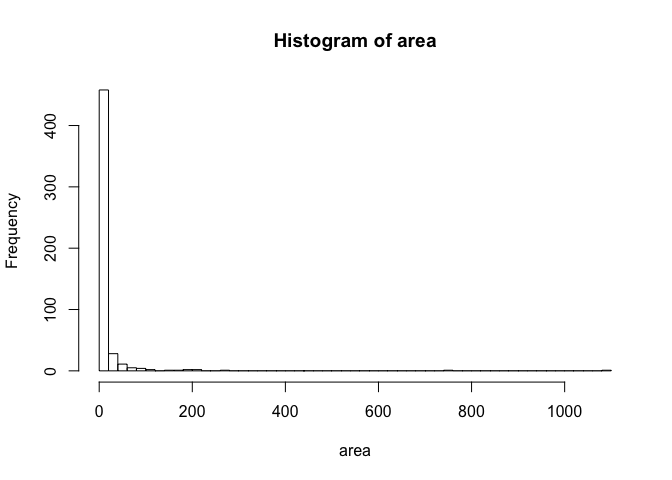
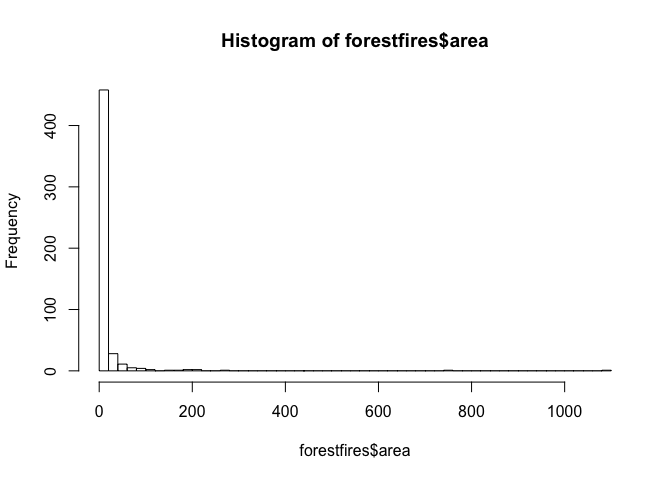
Correlation and Scatter plots

Changed region(s): [[0.3125, 0.0625, 0.75, 0.125], [0.4375, 0.9062, 0.625, 0.9688]]

diff --git a/forestfires.md b/forestfires.md
@@ -33,13 +33,13 @@ All the required libraries are loaded.
 
 ``` r
 source('libraries.R')
+source('Main.R')
 ```
 
 The data is retrieved and stored into a data frame using `read.csv`.
 
 ``` r
-forestfires <- read.csv("http://archive.ics.uci.edu/ml/machine-learning-databases/forest-fires/forestfires.csv",
-                        stringsAsFactors = FALSE)
+forestfires <- read.csv("http://archive.ics.uci.edu/ml/machine-learning-databases/forest-fires/forestfires.csv")
 ```
 
 Exploratory Data Analysis
@@ -48,8 +48,8 @@ Exploratory Data Analysis
 The response variable in our analysis is the `area`. A histogram of `area` reveals that a large number of values are zeros. A zero value for area indicates that there were no forest fires.
 
 ``` r
-attach(forestfires)
-hist(area, 40)
+#attach(forestfires)
+hist(forestfires$area, 40)
 ```
 
 ![](forestfires_files/figure-markdown_github/unnamed-chunk-3-1.png)
@@ -57,8 +57,8 @@ hist(area, 40)
 A log transformation can reveal the distribution of the area variable. However, since we have zeros, the log transform should be done on area + 1, i.e, log(area + 1). The distribution of log(area + 1) is shown:
 
 ``` r
-attach(forestfires)
-hist(log(area + 1), 40)
+#attach(forestfires)
+hist(log(forestfires$area + 1), 40)
 ```
 
 ![](forestfires_files/figure-markdown_github/unnamed-chunk-4-1.png)
@@ -76,8 +76,11 @@ Since our aim is to predict the area of the forest fires given that there is ind
 The histogram for log(area\[area &gt;0\]) is shown here:
 
 ``` r
-attach(forestfires)
-hist(log(area[area>0]), 40)
+#attach(forestfires)
+forestfires <- forestfires %>%
+  filter(area > 0) %>%
+  mutate(logArea=log(area))
+hist(forestfires$logArea, 40)
 ```
 
 ![](forestfires_files/figure-markdown_github/unnamed-chunk-6-1.png)
@@ -85,12 +88,8 @@ hist(log(area[area>0]), 40)
 Next, we will see how the transformed response variable correlates with other variables. X, Y, month and day are categrorical variables. A better way to explore the relationship of these categorical variables with the log(area\[area&gt;0\]) is to draw a box plot.
 
 ``` r
-attach(forestfires)
-forestfires %>%
-  filter(area > 0) %>%
-  mutate(logArea = log(area)) %>%
-  ggplot(aes(x = as.factor(X), y=logArea)) +
-  geom_boxplot()
+ggplot(forestfires, aes(x = as.factor(X), y=logArea)) +
+geom_boxplot()
 ```
 
 ![](forestfires_files/figure-markdown_github/unnamed-chunk-7-1.png)
@@ -98,24 +97,85 @@ forestfires %>%
 The box plot reveals that the mean and variation is pretty much the same across all levels of X, which indicates that X may not be a great predictor of logArea.
 
 ``` r
-attach(forestfires)
-forestfires %>%
-  filter(area > 0) %>%
-  mutate(logArea = log(area)) %>%
-  ggplot(aes(x = as.factor(Y), y=logArea)) +
+#attach(forestfires)
+ggplot(forestfires, aes(x = as.factor(Y), y=logArea)) +
   geom_boxplot()
 ```
 
 ![](forestfires_files/figure-markdown_github/unnamed-chunk-8-1.png)
 
-Create a correlation matrix of all the numeric variables:
+Same goes with Y. Thus, both the spatial predictors X and Y can safely be ignored from the model. Keeping these discrete variables does not appear to be a good choice.
+
+Next, let's explore how the `month` and `day` categorical variables are related to logArea - our transformed response variable.
 
 ``` r
-attach(forestfires)
+ggplot(forestfires, aes(x = as.factor(month), y=logArea)) +
+  geom_boxplot()
+```
+
+![](forestfires_files/figure-markdown_github/unnamed-chunk-9-1.png)
+
+There is definitely some variability of `logArea` between each of these `months (groups)`. However, some months don't have much data in them. It is better to even out these observations by categorizing them into seasons. Recoding the month variable into season.
+
+``` r
+for (i in 1:270){
+  if(forestfires$month[i] %in% c("dec", "jan", "feb"))
+      forestfires$season[i] <- "winter"
+  else if (forestfires$month[i] %in% c("sep", "oct", "nov"))
+      forestfires$season[i] <- "fall"
+  else if (forestfires$month[i] %in% c("jun", "jul", "aug"))
+      forestfires$season[i] <- "summer"
+  else
+      forestfires$season[i] <- "spring"
+}
+
+forestfires %>%
+  ggplot(aes(x = as.factor(forestfires$season), y=logArea)) +
+    geom_boxplot()
+```
+
+![](forestfires_files/figure-markdown_github/unnamed-chunk-10-1.png)
+
+It may not be very obvious from this boxplot, but summer months tend to have a higher values of area burnt by forest fires and also most frequent forest fires occur in summer months. A quick look at the contingency table reveals this fact. Also notice that a large number of values greater than 5 are in the summer months.
+
+``` r
+table(as.factor(forestfires$season))
+```
+
+    ## 
+    ##   fall spring summer winter 
+    ##    102     24    125     19
+
+This can be visually verified by this plot:
+
+``` r
+# Create a histogram to check the distribution of values faceted by season.
+ggplot(forestfires, aes(x = logArea)) +
+  geom_histogram() + 
+  facet_grid(~as.factor(season))
+```
+
+![](forestfires_files/figure-markdown_github/unnamed-chunk-12-1.png)
+
+This shows that summer and fall seasons tend to be associated with higher values of logArea. Hence, we should consider to include `season` as a predictor in our model.
+
+The last categorical variable that we need to investigate is the `day` variable.
+
+``` r
+forestfires %>%
+  ggplot(aes(x = as.factor(day), y=logArea)) +
+  geom_boxplot()
+```
+
+![](forestfires_files/figure-markdown_github/unnamed-chunk-13-1.png)
+
+Saturday and Sunday appear to have more severe forestfires than the rest of the days. This can be attributed to human involvement, hence this factor should be considered in the model.
+
+Next, we explore the relationship of numeric variables versus the response variable. Create a correlation matrix of all the numeric variables:
+
+``` r
 numericFF <- forestfires %>%
-  filter(area > 0) %>%
-  mutate(logArea = log(area)) %>%
-  select(-X, -Y, -month, -day, -area)
+  select(-X, -Y, -month, -day, -area, -season)
 
 # Create correlation matrix
 round(cor(numericFF), 2)
@@ -135,17 +195,29 @@ round(cor(numericFF), 2)
 Visualize this in a corrplot
 
 ``` r
-attach(forestfires)
-numericFF <- forestfires %>%
-  filter(area > 0) %>%
-  mutate(logArea = log(area)) %>%
-  select(-X, -Y, -month, -day, -area)
-
 # Create correlation matrix
 M <- round(cor(numericFF), 2)
 corrplot(M, method="pie", type="lower")
 ```
 
-![](forestfires_files/figure-markdown_github/unnamed-chunk-10-1.png)
+![](forestfires_files/figure-markdown_github/unnamed-chunk-15-1.png)
 
 There appear to be some correlation between predictor variables. Very little correlation with the response variable.
+
+Scatter plot of only numeric variables
+
+``` r
+numericFF %>%
+  select(-temp, -RH, -wind, -rain) %>%
+  ggpairs()
+```
+
+![](forestfires_files/figure-markdown_github/unnamed-chunk-16-1.png)
+
+``` r
+numericFF %>%
+  select(-FFMC, -DMC, -DC, -ISI) %>%
+  ggpairs()
+```
+
+![](forestfires_files/figure-markdown_github/unnamed-chunk-17-1.png)
